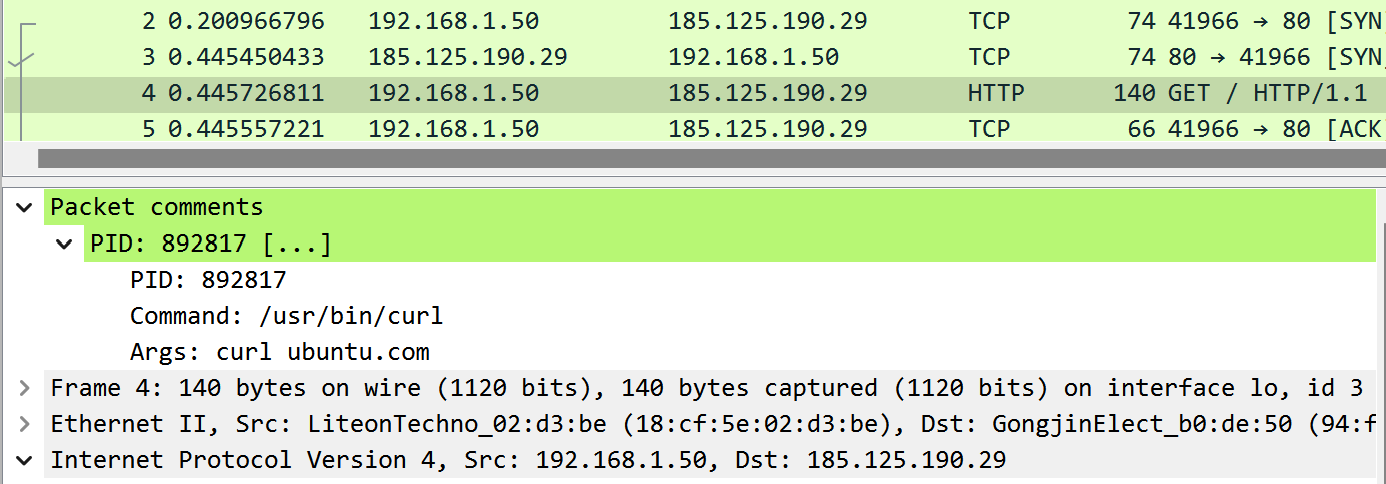
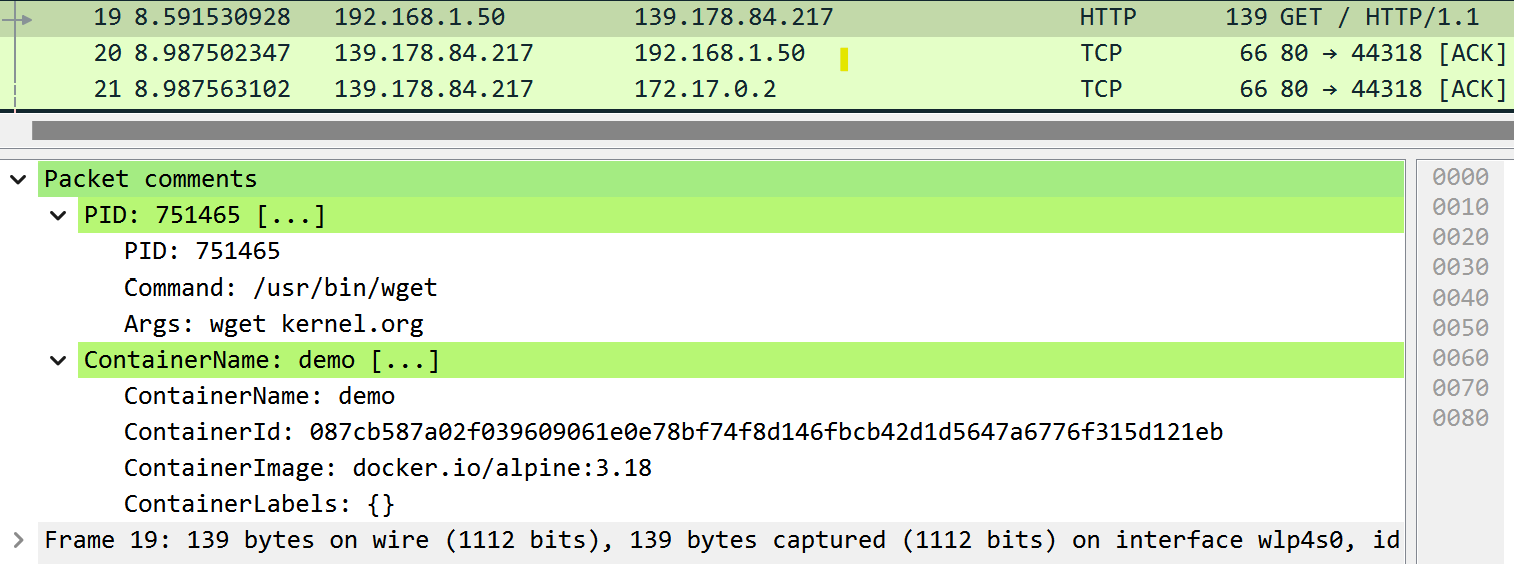
tidy container name

diff --git a/internal/writer/stdout.go b/internal/writer/stdout.go
@@ -45,7 +45,7 @@ func (w *StdoutWriter) Write(e *event.Packet) error {
 	pidInfo := fmt.Sprintf("Process (pid %d, cmd %s, args %s)",
 		e.Pid, p.Cmd, p.FormatArgs())
 	containerInfo := fmt.Sprintf("Container (name %s, id %s, image %s, labels %s)",
-		p.Container.Name, p.Container.Id, p.Container.Image, p.Container.FormatLabels())
+		p.Container.TidyName(), p.Container.Id, p.Container.Image, p.Container.FormatLabels())
 
 	// Decode a packet
 	packet := gopacket.NewPacket(e.Data, w.Decoder, gopacket.NoCopy)

diff --git a/internal/writer/pcapng.go b/internal/writer/pcapng.go
@@ -42,7 +42,7 @@ func (w *PcapNGWriter) Write(e *event.Packet) error {
 	if p.Container.Id != "" {
 		opts.Comments = append(opts.Comments,
 			fmt.Sprintf("ContainerName: %s\nContainerId: %s\nContainerImage: %s\nContainerLabels: %s",
-				p.Container.Name, p.Container.Id, p.Container.Image, p.Container.FormatLabels()),
+				p.Container.TidyName(), p.Container.Id, p.Container.Image, p.Container.FormatLabels()),
 		)
 	}
 

diff --git a/internal/types/container.go b/internal/types/container.go
@@ -2,6 +2,7 @@ package types
 
 import (
 	"encoding/json"
+	"strings"
 )
 
 type Container struct {
@@ -15,6 +16,10 @@ type Container struct {
 
 	Image       string
 	ImageDigest string
+}
+
+func (c Container) TidyName() string {
+	return strings.TrimLeft(c.Name, "/")
 }
 
 func (c Container) FormatLabels() string {

diff --git a/README.md b/README.md
@@ -1,5 +1,7 @@
 # ptcpdump
 
+<div id="top"></div>
+
 ![amd64-e2e](https://img.shields.io/github/actions/workflow/status/mozillazg/ptcpdump/test.yml?label=x86_64%20(amd64)%20e2e)
 ![arm64-e2e](https://img.shields.io/circleci/build/gh/mozillazg/ptcpdump/master?label=aarch64%20(arm64)%20e2e)
 
@@ -15,21 +17,27 @@ Table of Contents
 
 * [Features](#features)
 * [Installation](#installation)
-  * [Requirements](#requirements)
+   * [Requirements](#requirements)
 * [Usage](#usage)
-  * [Example output](#example-output)
+   * [Example commands](#example-commands)
+   * [Example output](#example-output)
+   * [Flags](#flags)
 * [Compare with tcpdump](#compare-with-tcpdump)
 * [Build](#build)
 
 
 ## Features
 
-* Aware of the process information associated with the packets.
-* Supports using pcap-filter(7) syntax for filtering packets.
-* Supports filtering packets by process ID and process name.
+* Process-aware
+  * Aware of the process information associated with the packets.
+  * Supports using pcap-filter(7) syntax for filtering packets.
+  * Supports filtering packets by process ID and process name.
 * Directly applies filters in the kernel space.
 * Supports saving captured packets in the PcapNG format for offline analysis with third-party tools such as Wireshark.
 * Supports reading packets from pcapng file.
+* Container-aware
+  * Aware of the container information associated with the packets.
+  * Supports multiple container runtimes: Docker Engine and containerd
 
 
 ## Installation
@@ -40,8 +48,46 @@ Please download the latest binary in the [releases](https://github.com/mozillazg
 
 Linux kernel version >= 5.2.
 
+<p align="right">(<a href="#top">🔝</a>)</p>
+
 
 ## Usage
+
+### Example commands
+
+```
+sudo ptcpdump -i any tcp
+sudo ptcpdump -i eth0 -i lo
+sudo ptcpdump -i eth0 --pid 1234 port 80 and host 10.10.1.1
+sudo ptcpdump -i any --pname curl
+sudo ptcpdump -i any -- curl ubuntu.com
+sudo ptcpdump -i any -w demo.pcapng
+sudo ptcpdump -i any -w - port 80 | tcpdump -n -r -
+sudo ptcpdump -i any -w - port 80 | tshark -r -
+ptcpdump -r demo.pcapng
+```
+
+<p align="right">(<a href="#top">🔝</a>)</p>
+
+
+### Example output
+
+```
+12:10:14.384352 wlp4s0 Out IP (tos 0x0, ttl 63, id 14146, offset 0, flags [DF], ip_proto TCP (6), length 52)
+    192.168.1.50.44318 > 139.178.84.217.80: Flags [F.], cksum 0xa28c, seq 945708706, ack 3673127374, win 501, options [nop,nop,TS val 3474241628 ecr 766303359], length 0
+    Process (pid 751465, cmd /usr/bin/wget, args wget kernel.org)
+    Container (name demo, id 087cb587a02f039609061e0e78bf74f8d146fbcb42d1d5647a6776f315d121eb, image docker.io/alpine:3.18, labels {})
+12:10:14.622421 wlp4s0 In IP (tos 0x4, ttl 47, id 43987, offset 0, flags [DF], ip_proto TCP (6), length 52)
+    139.178.84.217.80 > 192.168.1.50.44318: Flags [.], cksum 0xa787, seq 3673127374, ack 945708707, win 114, options [nop,nop,TS val 766303761 ecr 3474241628], length 0
+    Process (pid 751465, cmd /usr/bin/wget, args wget kernel.org)
+    Container (name demo, id 087cb587a02f039609061e0e78bf74f8d146fbcb42d1d5647a6776f315d121eb, image docker.io/alpine:3.18, labels {})
+```
+
+<p align="right">(<a href="#top">🔝</a>)</p>
+
+
+### Flags
+
 
 ```
 Usage:
@@ -76,17 +122,8 @@ Flags:
   -w, --write-file string    Write the raw packets to file rather than parsing and printing them out. They can later be printed with the -r option. Standard output is used if file is '-'. e.g. ptcpdump.pcapng
 ```
 
+<p align="right">(<a href="#top">🔝</a>)</p>
 
-### Example output
-
-```
-18:05:35.441022 wlp4s0 In IP (tos 0x4, ttl 51, id 0, offset 0, flags [DF], ip_proto TCP (6), length 60)
-    185.125.190.29.80 > 192.168.1.50.41966: Flags [S.], cksum 0x68fd, seq 3647722906, ack 1664327469, win 65160, options [mss 1452,sackOK,TS val 1103153989 ecr 3934018003,nop,wscale 7], length 0
-    Process (pid 892817, cmd /usr/bin/curl, args curl ubuntu.com)
-18:05:35.441298 wlp4s0 Out IP (tos 0x0, ttl 64, id 19415, offset 0, flags [DF], ip_proto TCP (6), length 126)
-    192.168.1.50.41966 > 185.125.190.29.80: Flags [P.], cksum 0x39e6, seq 1664327469:1664327543, ack 3647722907, win 502, options [nop,nop,TS val 3934018248 ecr 1103153989], length 74
-    Process (pid 892817, cmd /usr/bin/curl, args curl ubuntu.com)
-```
 
 ## Compare with tcpdump
 
@@ -163,6 +200,8 @@ Flags:
 | -z *postrotate-command*                           | ✅       |                          |
 | -Z *user*, --relinquish-privileges=*user*         | ✅       |                          |
 
+<p align="right">(<a href="#top">🔝</a>)</p>
+
 
 ## Build
 
@@ -177,3 +216,5 @@ Flags:
     ```
     make build
     ```
+
+<p align="right">(<a href="#top">🔝</a>)</p>
